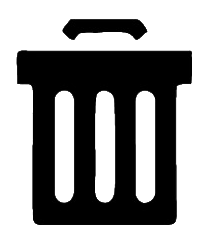
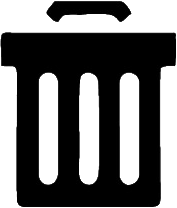
delete-warning-dialog included

diff --git a/template/board/board.js b/template/board/board.js
@@ -2,8 +2,7 @@
 // generate collumn-content for board
 function generateSection(keySection, filterKey) {
 
-    let visible = tasks.filter(t => t['visibleboard'] == true);
-    
+    let visible = tasks.filter(t => t['visibleboard'] == true);    
 
     // filter data depends on filterKey for the section/collumn on board
     let filteredList = visible.filter(t => t['section'] == filterKey);
@@ -79,20 +78,28 @@ function generateTask(element) {
                 </div>
             </div>
 
-            <div class="d-flex align-items-end py-1">
+            <div class="d-flex flex-column justify-content-end align-items-center mx-1 py-2">
+                <div class="trash-icon ">
+                    <img onclick="deleteTask(${element['id']})" src="./img/box-move-right.png">
+                </div>
                 <div class="trash-icon">
-                    <img onclick="deleteTask(${element['id']})" src="./img/basket.png">
+                    <img onclick="deleteTask(${element['id']})" src="./img/eye.png">
+                </div>
+                <div class="trash-icon">
+                    <img onclick="showDeleteDialog(${element['id']})" src="./img/basket.png">
                 </div>  
             </div>
         </div>
     `
 }
 
+// <img onclick="deleteTask(${element['id']})" src="./img/basket.png">
+
 
 function deleteTask(id) {
-    console.log('delete task with ID: ', id);
+    // console.log('delete task with ID: ', id);
     tasks.splice(parseInt(id), 1);
-    console.log("tasks__", tasks.length);
+    // console.log("tasks__", tasks.length);
     freshupIDs();
     updateBoardHTML();
 }

diff --git a/template/board/board-dialog.js b/template/board/board-dialog.js
@@ -1,0 +1,32 @@
+function doCancel() {
+    document.getElementById('board-dialog').classList.add('d-none');
+}
+
+function showDeleteDialog(id) {
+    generateDeleteDialog(id)
+    document.getElementById('board-dialog').classList.remove('d-none');    
+
+}
+
+function generateDeleteDialog(id) {
+    document.getElementById('board-dialog').innerHTML = `
+    <div class="dialog-content d-flex flex-column justify-content-between">
+
+      <div id="dialog-headline">
+         <div class="d-flex justify-content-start border px-1 rounded-top border-warning bg-warning text-black">
+           WARNING
+         </div>
+      </div>
+
+      <div id="dialog-text" class="px-3">
+         <div>Do You realy want to delete this item?</div>
+         
+      </div>
+
+      <div class="dialog-button-area d-flex justify-content-around " >
+         <div class="cancel-button d-flex border border-dark py-1 px-4 m-2 rounded" id="button-cancel" onclick="doCancel()">Cancel</div>
+         <div class="do-button d-flex border border border-dark py-1 px-4 m-2 rounded" id="do-button" onclick="deleteTask(${id})">YES, DO IT</div>
+      </div>
+      
+    </div> `
+}

diff --git a/index.html b/index.html
@@ -51,9 +51,11 @@
     <!-- base data set and functions-->
     <!-- <script src="./template/task.js"></script> -->
     <link rel="stylesheet" href="./template/board/board.css">
+    <link rel="stylesheet" href="./template/board/board-dialog.css">
     <script src="./template/board/board.js"></script>
     <script src="./template/board/dragAndDrop.js"></script>
     <script src="./template/board/dummy-tasks.js"></script>
+    <script src="./template/board/board-dialog.js"></script>
     <!-- ---------------------------------- Board Valentin end ---------------------------------- -->
 
     <!-- ------------------------------------init by Vali --------------------------------------- -->
@@ -88,6 +90,10 @@
         <!-- Help section DK -->
         <div w3-include-html="./template/help/help.html"></div>
         <!-- help section DK end -->
+
+        <!-- Dialog - Vali -->
+        <div w3-include-html="./template/board/board-dialog.html"></div>
+        <!-- Dialog - vali - end -->
 
     </div>
 

diff --git a/template/board/board-dialog.html b/template/board/board-dialog.html
@@ -1,0 +1,22 @@
+ <div id="board-dialog" class="board-dialog d-none" onclick="doCancel()">
+    <div class="dialog-content d-flex flex-column justify-content-between">
+
+      <div id="dialog-headline">
+         <div class="d-flex justify-content-start border px-1 rounded-top border-warning bg-warning text-black">
+           WARNING
+         </div>
+      </div>
+
+      <div id="dialog-text" class="px-3">
+         <div>Do You realy want to delete this item?</div>
+         
+      </div>
+
+      <div class="dialog-button-area d-flex justify-content-around " >
+         <div class="cancel-button d-flex border border-dark py-1 px-4 m-2 rounded" id="button-cancel" onclick="doCancel()">Cancel</div>
+         <div class="do-button d-flex border border border-dark py-1 px-4 m-2 rounded" id="do-button" onclick="deleteTask(id)">YES, DO IT</div>
+      </div>
+      
+    </div>
+
+ </div>

diff --git a/template/board/board-dialog.css b/template/board/board-dialog.css
@@ -1,0 +1,31 @@
+.board-dialog {
+    background-color: rgba(0, 0, 0, 0.5) !important;
+    z-index: 999;
+    position: fixed;
+    left: 0;
+    right: 0;
+    top: 0;
+    bottom: 0;
+    display: flex;
+    justify-content: center;
+    align-items: center;
+}
+
+.dialog-content {
+    background-color:white;
+    border-width: 1px;
+    border-color: rgba(0, 0, 0, 0.2);
+    border-radius: 4px;
+    /* height:50vh; */
+    /* width: 50vw; */    
+    min-height: 200px;
+    min-width: 300px;
+}
+
+.cancel-button, .do-button{
+  cursor: pointer;  
+}
+
+.cancel-button:hover, .do-button:hover{
+    background-color: lightgray;
+}
